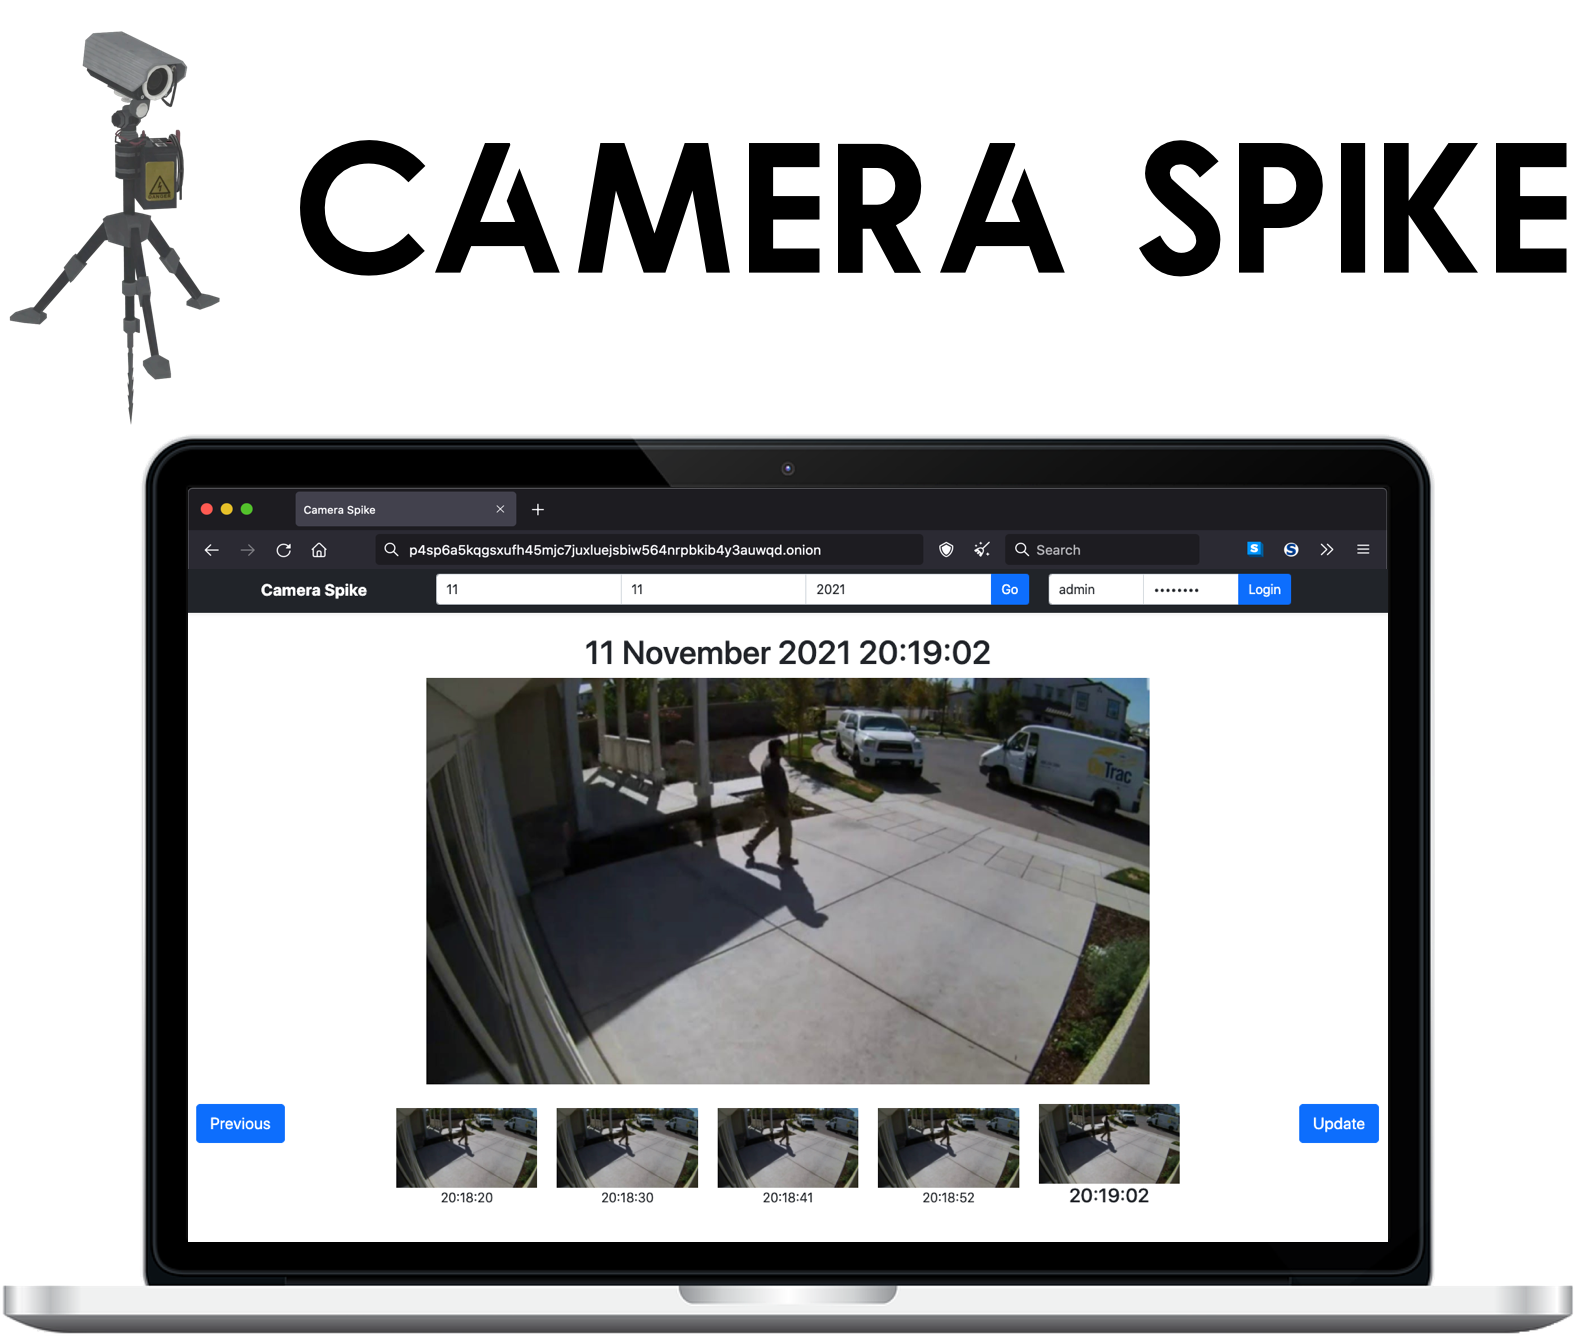
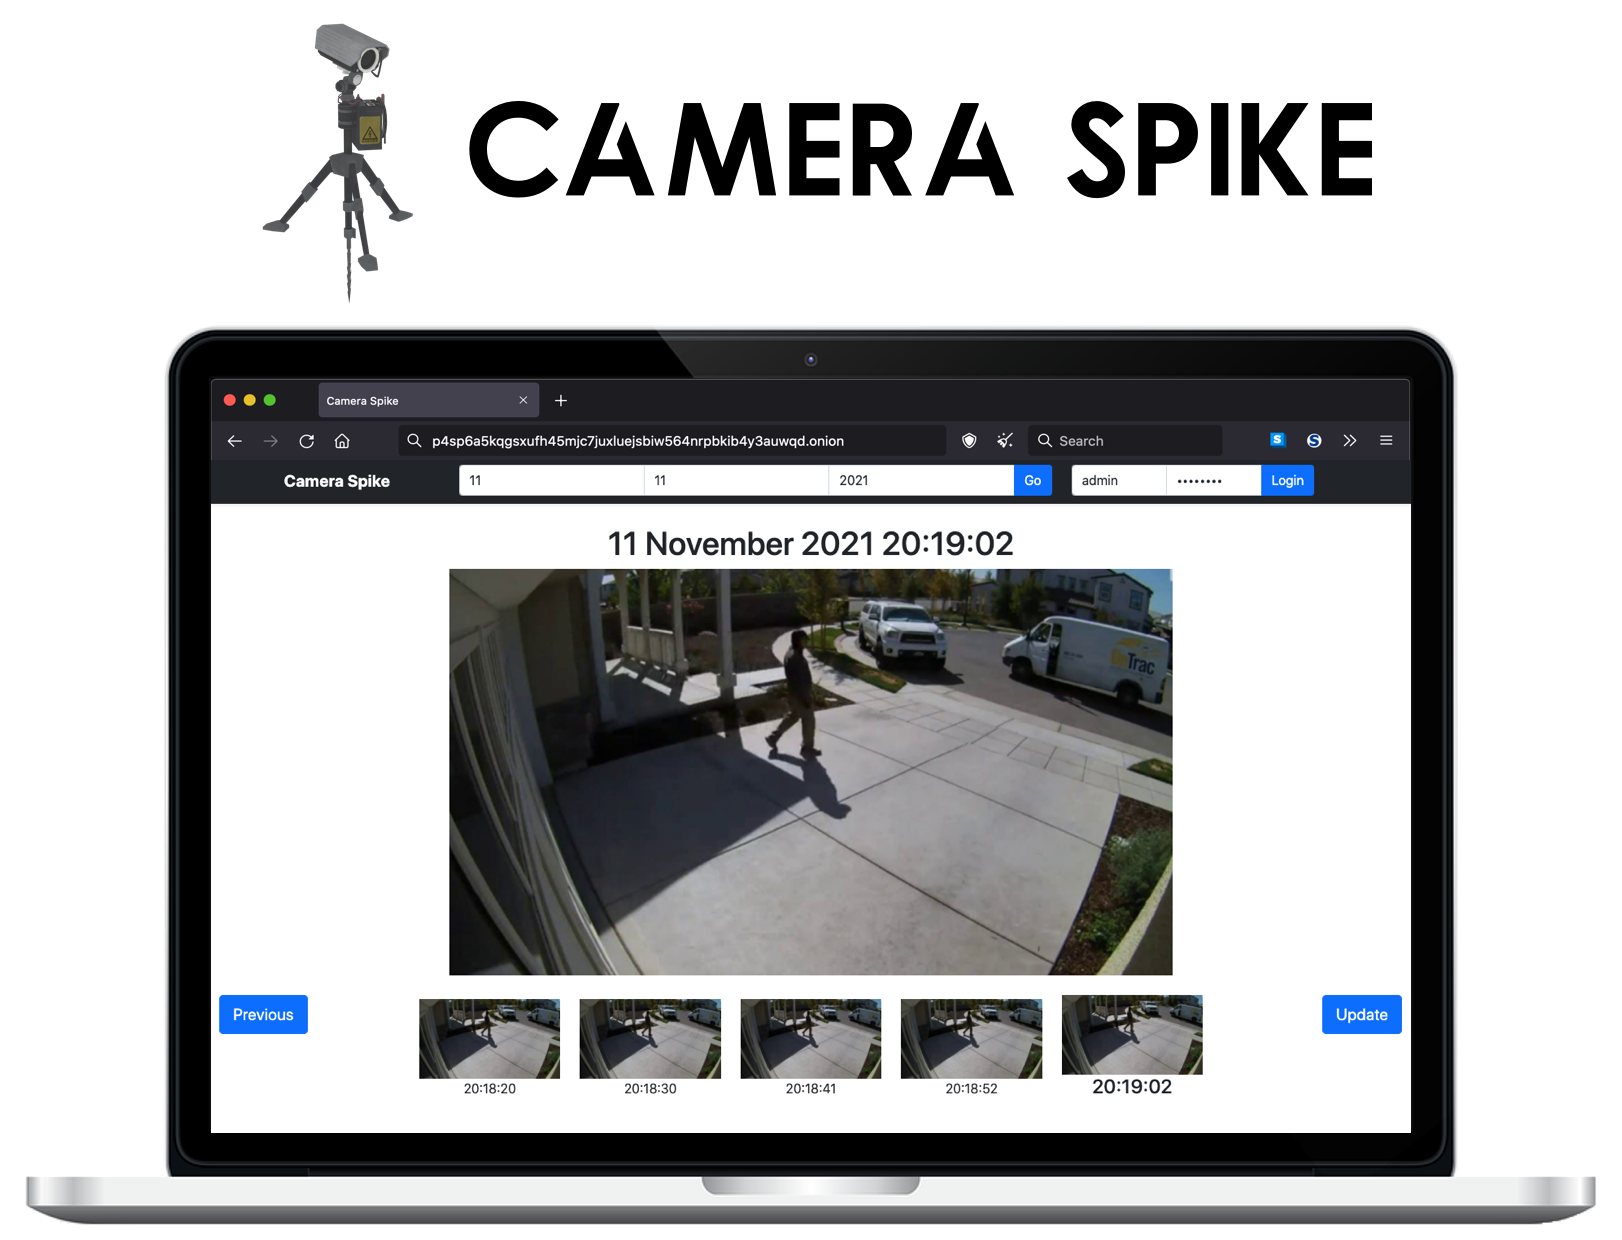
ReadMe

diff --git a/README.md b/README.md
@@ -5,9 +5,9 @@
 I am an expert Node.js and PHP developer with over 10 years of experience building, deploying and maintaining REST APIs. I like to build open-source projects that leverage alternative and emerging technologies to solve real world problems.
 
 
-- ⭐ My projects have generated over 650 stars
-- 🤓 Worked at Apple, RedHat and LegalZoom
-- ✅ Laravel Framework Contributor [PR:28849](https://github.com/laravel/framework/pull/28849) merged by [Taylor Otwell](https://github.com/taylorotwell)
+- ⭐  My projects have generated over 650 stars
+- 🤓  Worked at Apple, RedHat and LegalZoom
+- ✅  Laravel Framework Contributor [PR:28849](https://github.com/laravel/framework/pull/28849) merged by [Taylor Otwell](https://github.com/taylorotwell)
 
 
 #### Hire Me
@@ -36,7 +36,7 @@ VIPFS is a simple boilerplate project for creating permanent decentralised apps,
 
 ---
 <p>
-  <a href="https://github.com/anthonybudd/larachan"><img width="300" align='right' src="https://raw.githubusercontent.com/anthonybudd/anthonybudd/master/img/camera-spike.png"></a>
+  <a href="https://github.com/anthonybudd/larachan"><img width="300" align='right' src="https://raw.githubusercontent.com/anthonybudd/anthonybudd/master/img/camera-spike.png?v=2"></a>
 </p>
 
 ### [Camera Spike](https://github.com/anthonybudd/Camera-Spike)
@@ -46,7 +46,10 @@ VIPFS is a simple boilerplate project for creating permanent decentralised apps,
 
 Camera Spike is a basic self-hosted security camera project for the Raspberry Pi. A web UI is provided using Tor, this allows you to remotely monitor the feed without needing to register the device with a 3rd-party or without disclosing your IP address or the IP address of the Camera Spike. CLI tools are provided so you can easily create a custom onion v3 address.
 
+&nbsp;&nbsp;
+
 ---
+
 <p>
   <a href="https://github.com/anthonybudd/larachan"><img width="300" align='right' src="https://raw.githubusercontent.com/anthonybudd/anthonybudd/master/img/larachan.png"></a>
 </p>
